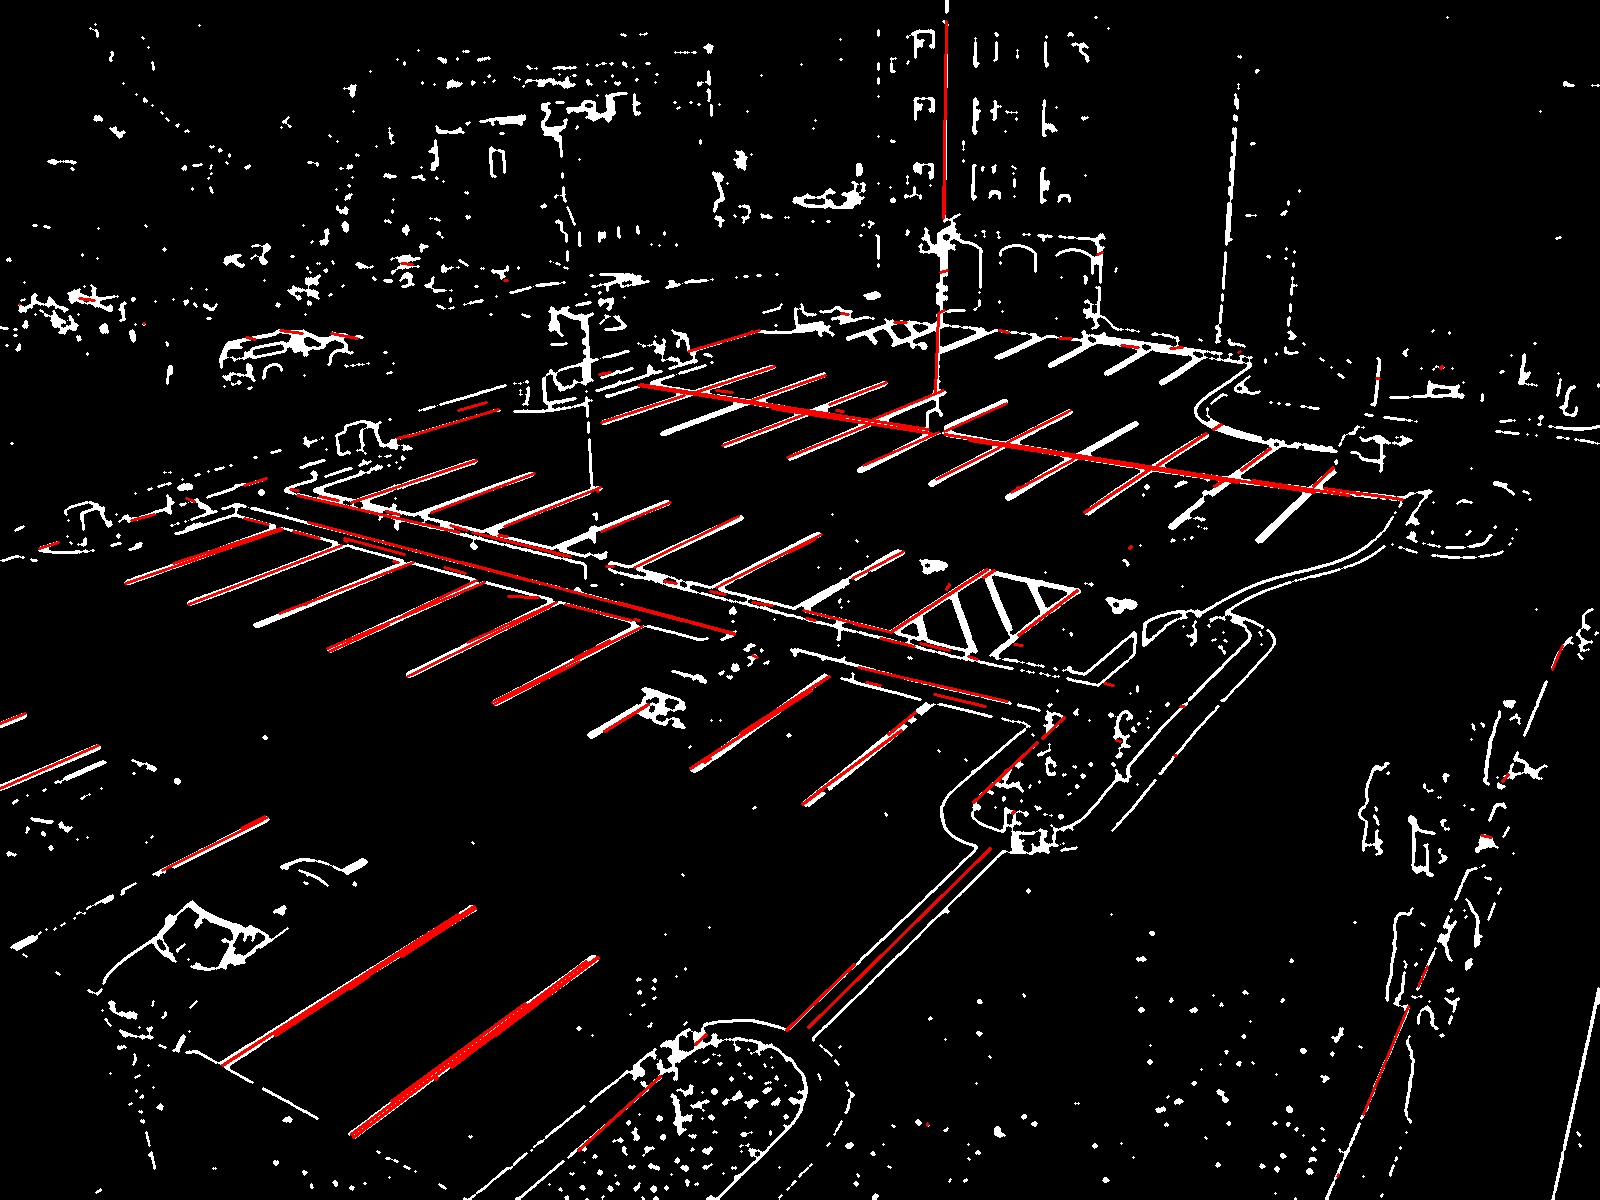
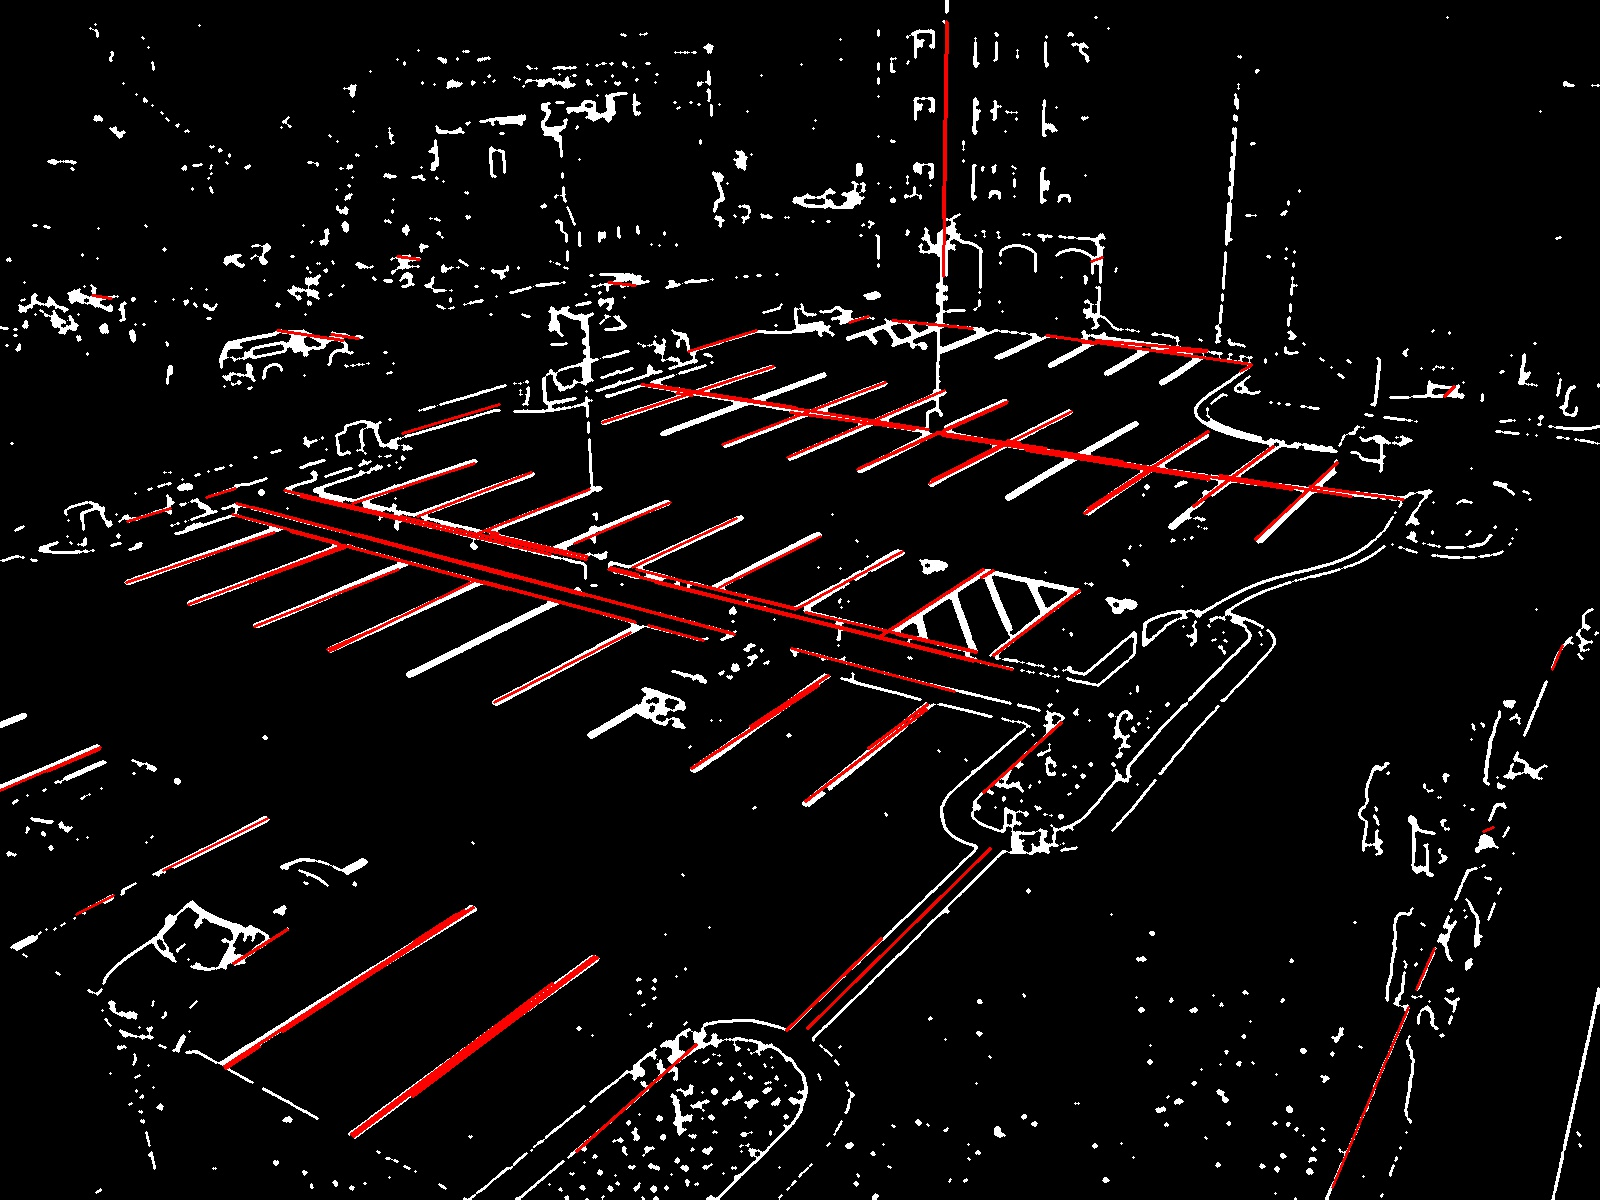
Refatora para usar defines para alguns parametros

diff --git a/src/main.cpp b/src/main.cpp
@@ -24,7 +24,11 @@ Mat ExtractFeatureMat(Mat featuresMat, int featureNum);
 	#define M_PI 3.141592653589793238L
 #endif
 #define BIN_THRES 0.5 // Threshold da binarizacao
+#define DIST_RES 1
+#define ANGLE_RES M_PI/180.
 #define HOUGH_THRES 300 // Acumulador
+#define MIN_LINE_LEN 10.
+#define MAX_LINE_GAP 5.
 #define TAM_DILATA 7 // Pixels
 #define TAM_ERODE 5 // Pixels
 #define TAM_LINE 2000 // Pixels
@@ -304,7 +308,7 @@ int main(int argc, char** argv){
 
 		{ // Acha as linhas por Hough
 			std::vector<Vec2f> lines;
-			HoughLines(operado, lines, 1, M_PI/180., HOUGH_THRES);
+			HoughLines(operado, lines, DIST_RES, ANGLE_RES, HOUGH_THRES);
 			
 			Mat houghWithLines = gray.clone();
 			cvtColor(operado, houghWithLines, COLOR_GRAY2BGR);
@@ -346,7 +350,7 @@ int main(int argc, char** argv){
 
 		{ // Acha os segmentos de linhas por Hough
 			std::vector<Vec4i> segLines;
-			HoughLinesP(operado, segLines, 1, M_PI/180., HOUGH_THRES);
+			HoughLinesP(operado, segLines, DIST_RES, ANGLE_RES, HOUGH_THRES, MIN_LINE_LEN, MAX_LINE_GAP);
 
 			Mat houghWithLines = gray.clone();
 			cvtColor(operado, houghWithLines, COLOR_GRAY2BGR);
